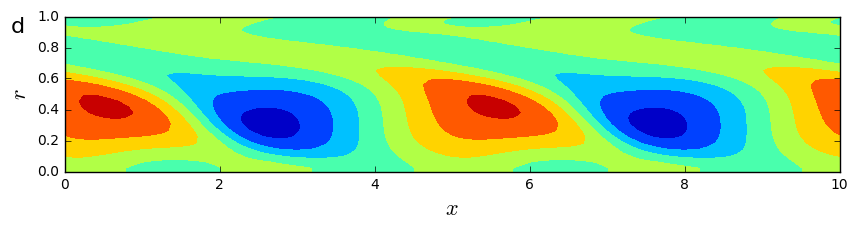
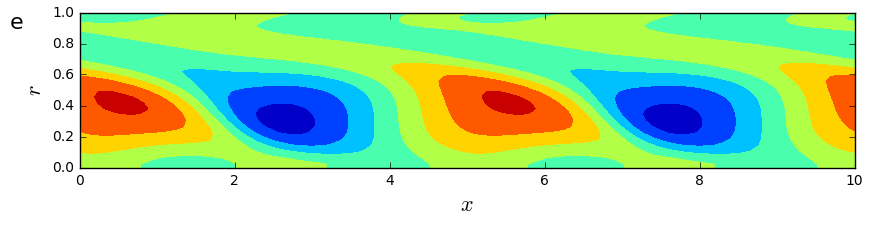
pipe_tw OX gen added to ch3

diff --git a/ch3_oxgen.tex b/ch3_oxgen.tex
@@ -8,7 +8,7 @@
 
 \section{Характеристики возникающей на сепаратрисе бегущей волны}
 
-Применение метода поиска решения на сепаратрисе, описанного в разделе \ref{edge_seq}, в расчетной области небольшой протяженности при $L_x = 5$, $\Re = 2200$ позволило получить решение типа нелинейной бегущей волны. Возникающая бегущая волна повторяет особенности бегущей волны, наблюдаемой в модельном порыве, однако, в отличии от нее, является точной в том смысле, что её поле скорости строго периодично вдоль трубы и во времени. В сопутствующей системе отсчета новое решение оказывается стационарным, что делает его более доступным для исследования. Фазовая скорость найденной бегущей волны оказывается равной $c_{tw} = 0.77$ (<<traveling wave>>), что соответствует скорости перемещения бегущей волны в модельном порыве. Возможно, найденная бегущая волна была получена также в \cite{Chantry2014}, где сообщается о том, что локализованное вдоль трубы решение, соответствующее модельному порыву, порождается некоторой бегущей волной вследствие потери ей симметрии. 
+Применение метода поиска решения на сепаратрисе, описанного в разделе \ref{edge_seq}, в расчетной области небольшой протяженности при $L_x = 5$, $\Re = 2200$ позволило получить решение типа нелинейной бегущей волны. Возникающая бегущая волна повторяет особенности бегущей волны, наблюдаемой в модельном порыве, однако, в отличии от нее, является точной в том смысле, что её поле скорости строго периодично вдоль трубы и во времени. В сопутствующей системе отсчета новое решение оказывается стационарным, что делает его более доступным для исследования. Фазовая скорость найденной бегущей волны равна $c_{tw} = 0.77$ (<<traveling wave>>), что соответствует скорости перемещения бегущей волны в модельном порыве. Возможно, найденная бегущая волна была получена также в \cite{Chantry2014}, где сообщается о том, что локализованное вдоль трубы решение, соответствующее модельному порыву, порождается некоторой бегущей волной вследствие потери ей симметрии. 
 
 Как при исследовании модельного порыва, разделим поле скорости бегущей волны $\v_{tw}$ на стационарную $\V_{tw} = \overline{\v_{tw}}^{x}$ и пульсационную $\v_{n,tw} = \v_{tw} - \V_{tw}$ составляющие. В модельном порыве осреднение выполняется по времени в сопутствующей системе отсчета, в которой бегущая волна перемещается вниз по потоку. В случае точной бегущей волны такое осреднение эквивалентно осреднению вдоль трубы, что позволяет отказаться от переменной времени. Для того, чтобы представить средние характеристики бегущей волны на иллюстрации, достаточно привести их значение только в одном сечении трубы, так как они не зависят от $x$.
 
@@ -52,9 +52,9 @@
 \begin{equation}\label{ox_eq}
 \pd{\omega_x}{t} - \nu\nabla^2 \omega_x =  -  (\v - \c_f, \nabla) \omega_x + (\om, \nabla) v_x
 \end{equation}
-Здесь $\om = (\omega_x, \omega_r, \omega_\theta) = \rot \v$ --- вектор завихренности, $\c_f$ --- скорость перемещения системы отсчета. Уравнение для стационарной составляющей продольной завихренности получается после осреднения \eqref{ox_eq} по времени в системе отсчета, связанной с порывом:
+Здесь $\om = (\omega_x, \omega_r, \omega_\theta) = \rot \v$ --- вектор завихренности, $\c_f$ --- скорость перемещения системы отсчета. Уравнение для стационарной составляющей продольной завихренности получается после осреднения \eqref{ox_eq} вдоль трубы:
 \begin{equation}\label{OX_eq}
-\pd{\Omega_x}{t} - \nu\nabla^2 \Omega_x = - (\V - \c_f, \nabla) \Omega_x + (\Om, \nabla) V_x - \overline{(\v', \nabla) \omega'_x}^t + \overline{ (\om', \nabla) v'_x }^t
+\pd{\Omega_x}{t} - \nu\nabla^2 \Omega_x = - (\V - \c_f, \nabla) \Omega_x + (\Om, \nabla) V_x - \overline{(\v', \nabla) \omega'_x}^x + \overline{ (\om', \nabla) v'_x }^x
 \end{equation}
 Здесь  $\Om=(\Omega_x, \Omega_r, \Omega_\theta)$ и $\om'=(\omega'_x, \omega'_r, \omega'_\theta)$ средняя и пульсационная составляющие вектора завихренности. Отметим, что в силу линейности оператора Ротора и осреднения $\Om = \rot \V$, $\om' = \rot \v'$, где $\V$ и $\v'$ --- средняя и пульсационная составляющие поля скорости $\v$. В правой части \eqref{OX_eq} первая пара членов описывает изменение продольной завихренности за счет конвективного переноса и деформации вихревых линий осредненного течения, а вторая пара выражает порождение средней завихренности пульсационным движением. При отсутствии пульсаций продольная завихренность постепенно исчезает под действием вязкости. В рассматриваемом течении система находится в равновесии и стационарная продольная завихренность во времени не меняется. Вязкие диссипация и диффузия компенсируются генерацией завихренности членами в правой части \eqref{OX_eq}.
 
@@ -68,7 +68,7 @@
 
 При анализе уравнения \eqref{OX_eq} обнаружено, что два слагаемых в правой части, а именно
 \begin{equation}\label{OXgen_terms}
- - \overline{v'_x \frac{\d \omega'_x}{\d x}} + \overline{ \omega'_x \frac{\d v'_x}{\d x} },
+ - \overline{v'_x \frac{\d \omega'_x}{\d x}}^x + \overline{ \omega'_x \frac{\d v'_x}{\d x} }^x,
 \end{equation}
 вносят определяющий вклад в производство средней продольной завихренности. Соответствующее сумме \eqref{OXgen_terms}  распределение в уравнении для $\Omega_x^2$ представлено на рис.~\ref{OXgen_pic}(b), а вклад остальных слагаемых правой части \eqref{OX_eq} показан на рис.~\ref{OXgen_pic}(c). Распределение генерации $\Omega_x^2$ выделенными в \eqref{OXgen_terms} членами практически совпадает по форме с распределением $\Omega_x^2$, тогда как вклад остальных членов не имеет выраженного распределения и на порядок уступает по суммарному вкладу в генерацию $\Omega_x^2$. Таким образом, нет сомнения в том, что стационарные продольные вихри возникают в основном за счет действия выделенной в \eqref{OXgen_terms} пары слагаемых.
 
@@ -76,23 +76,25 @@
 
 \begin{figure}
 \center{\includegraphics[width=0.5\linewidth]{pipetw_lin_cor.png}\includegraphics[width=0.5\linewidth]{pipetw_puls_cor.png}}
-\caption{Распределение по сечению трубы $\Omega_x^2$ --- (a), вклад в производство $\Omega_x^2$ слагаемых, соответствующих выделенным в \eqref{OXgen_terms} --- (b), вклад остальных слагаемых в правой части \eqref{OX_eq} --- (с). Сплошные линии соответствуют положительным значениям, прерывистые --- отрицательным.}
-\label{OXgen_pic}
+\caption{Значение $\d v_x' /\d x$ и $\omega_x'$ на прямой, проходящей через область, занятую положительным вихрем, $r = 0.5, \theta = \pi/8$: {\it a} --- для пульсаций, полученных в линейном приближении; {\it b} --- для пульсационной составляющей движения. }
+\label{OXgen_corr_pic}
 \end{figure}
 
 
-Каждое из двух слагаемых в \eqref{OXgen_terms} дает примерно половину общего вклада в производство средней продольной завихренности. Для пульсаций, полученных в рамках линеаризованной постановки, слагаемые \eqref{OXgen_terms} равны друг другу точно. Так как среднее поле скорости $\V_{tw}$ однородно вдоль трубы, возникающие на нем вследствие линейной потери устойчивости собственные возмущения меняются вдоль трубы по гармоническом закону. При фиксированных значениях $r, \theta$ пусть $v'_x = a \sin(\alpha x + \phi)$, $\omega_x' = b \sin(\alpha x + \psi)$. Тогда 
-\begin{multline}
- - \overline{v'_x \frac{\d \omega'_x}{\d x}}^x + \overline{\omega'_x \frac{\d v'_x}{\d x}}^x = 
-- \overline{\alpha a b \sin(\alpha x + \phi) \cos(\alpha x + \psi)}^x + \\ +
-\overline{\alpha a b \cos(\alpha x + \phi) \sin(\alpha x + \psi)}^x = \alpha a b \sin(\psi - \phi).
-\end{multline}
-Осреднение вдоль трубы может быть опущено, слагаемые иметь равные значения 
+Каждое из двух слагаемых в \eqref{OXgen_terms} дает примерно половину общего вклада в производство средней продольной завихренности. Можно показать, что для пульсаций, полученных в рамках линеаризованной постановки, слагаемые \eqref{OXgen_terms} равны друг другу точно. Так как среднее поле скорости $\V_{tw}$ однородно вдоль трубы, возникающие на нем собственные возмущения меняются вдоль трубы по гармоническом закону. При фиксированных значениях $r$ и $\theta$ пусть  $v'_x = a \sin(\alpha x + \phi)$, $\omega_x' = b \sin(\alpha x + \psi)$, тогда:
+\begin{equation} \label{OXgen_iterms_1}
+ - v'_x \frac{\d \omega'_x}{\d x} = - \alpha a b \sin(\alpha x + \phi) \cos(\alpha x + \psi),
+\end{equation}
+\begin{equation} \label{OXgen_iterms_2}
+\omega'_x \frac{\d v'_x}{\d x} =  \alpha a b \cos(\alpha x + \phi) \sin(\alpha x + \psi),
+\end{equation}
+\begin{equation} \label{OXgen_iterms_sum}
+ - v'_x \frac{\d \omega'_x}{\d x} + \omega'_x \frac{\d v'_x}{\d x} = \alpha a b \sin(\psi - \phi).
+\end{equation}
+Осредненные вдоль трубы, слагаемые \eqref{OXgen_iterms_1}, \eqref{OXgen_iterms_2} в точности равны друг другу. Более того, сумма \eqref{OXgen_iterms_sum} не зависит от $x$, что, в частности, позволяет упустить знак осреднения вдоль трубы. Эффективность производства  $\Omega_x$ определяет разность фаз $\psi - \phi$. В области положительного вихря, при $a,b > 0$, наибольшую эффективность как первому, так и второму слагаемому обеспечивает $\psi - \phi = \pi/2$. В этом случае $\d v'_x/\d x$ и $\omega'_x$ положительно коррелированы в то время, как $\d v'_x/\d x$ и $\omega'_x$ --- отрицательно. В области отрицательного вихря ситуация меняется на противоположную. Расчет соответствующих коэффициентов корреляции показывает, что они близки к $\pm1$ в соответствующих областях. В качестве подтверждения на рисунке \ref{OXgen_corr_pic},{\it a} представлены значения $\d v'_x/\d x$ и $\omega'_x$ на прямой, проходящей через область, занятую положительным вихрем, $r = 0.5, \theta = \pi/8$. Фазы выделенных компонент движения практически совпадают. Указанное свойство сохраняется также для пульсационной составляющей движения, для которой аналогичные величины изображены на рисунке \ref{OXgen_corr_pic},{\it b}. Объяснить наблюдаемую согласованность фаз позволяет механизм образования пульсаций продольной завихренности, выделенный при исследовании бегущей волны, представленный в следующем разделе. 
 
-Это значит, в частности, что колебания $\d v'_x/\d x$ и $\omega'_x$ положительно коррелированы в области концентрации положительной $\Omega_x$ и отрицательно коррелированы в области концентрации отрицательной $\Omega_x$. То же относится и к колебаниям $-v'_x$ и $\d \omega'_x/\d x$. Расчет соответствующих коэффициентов корреляции показывает, что они близки к $\pm1$ в соответствующих областях. 
 
-
-\section{Механизм возникновения пульсаций продольной завихренности}
+\section{Механизм образования пульсаций продольной завихренности}
 
 Для выявления механизма формирования такой связи между пульсациями продольных компонент скорости и завихренности рассмотрим уравнение эволюции $\omega'_x$, получающееся вычитанием \eqref{OX_eq} из \eqref{ox_eq}:
 \begin{multline}\label{ox1_eq}
